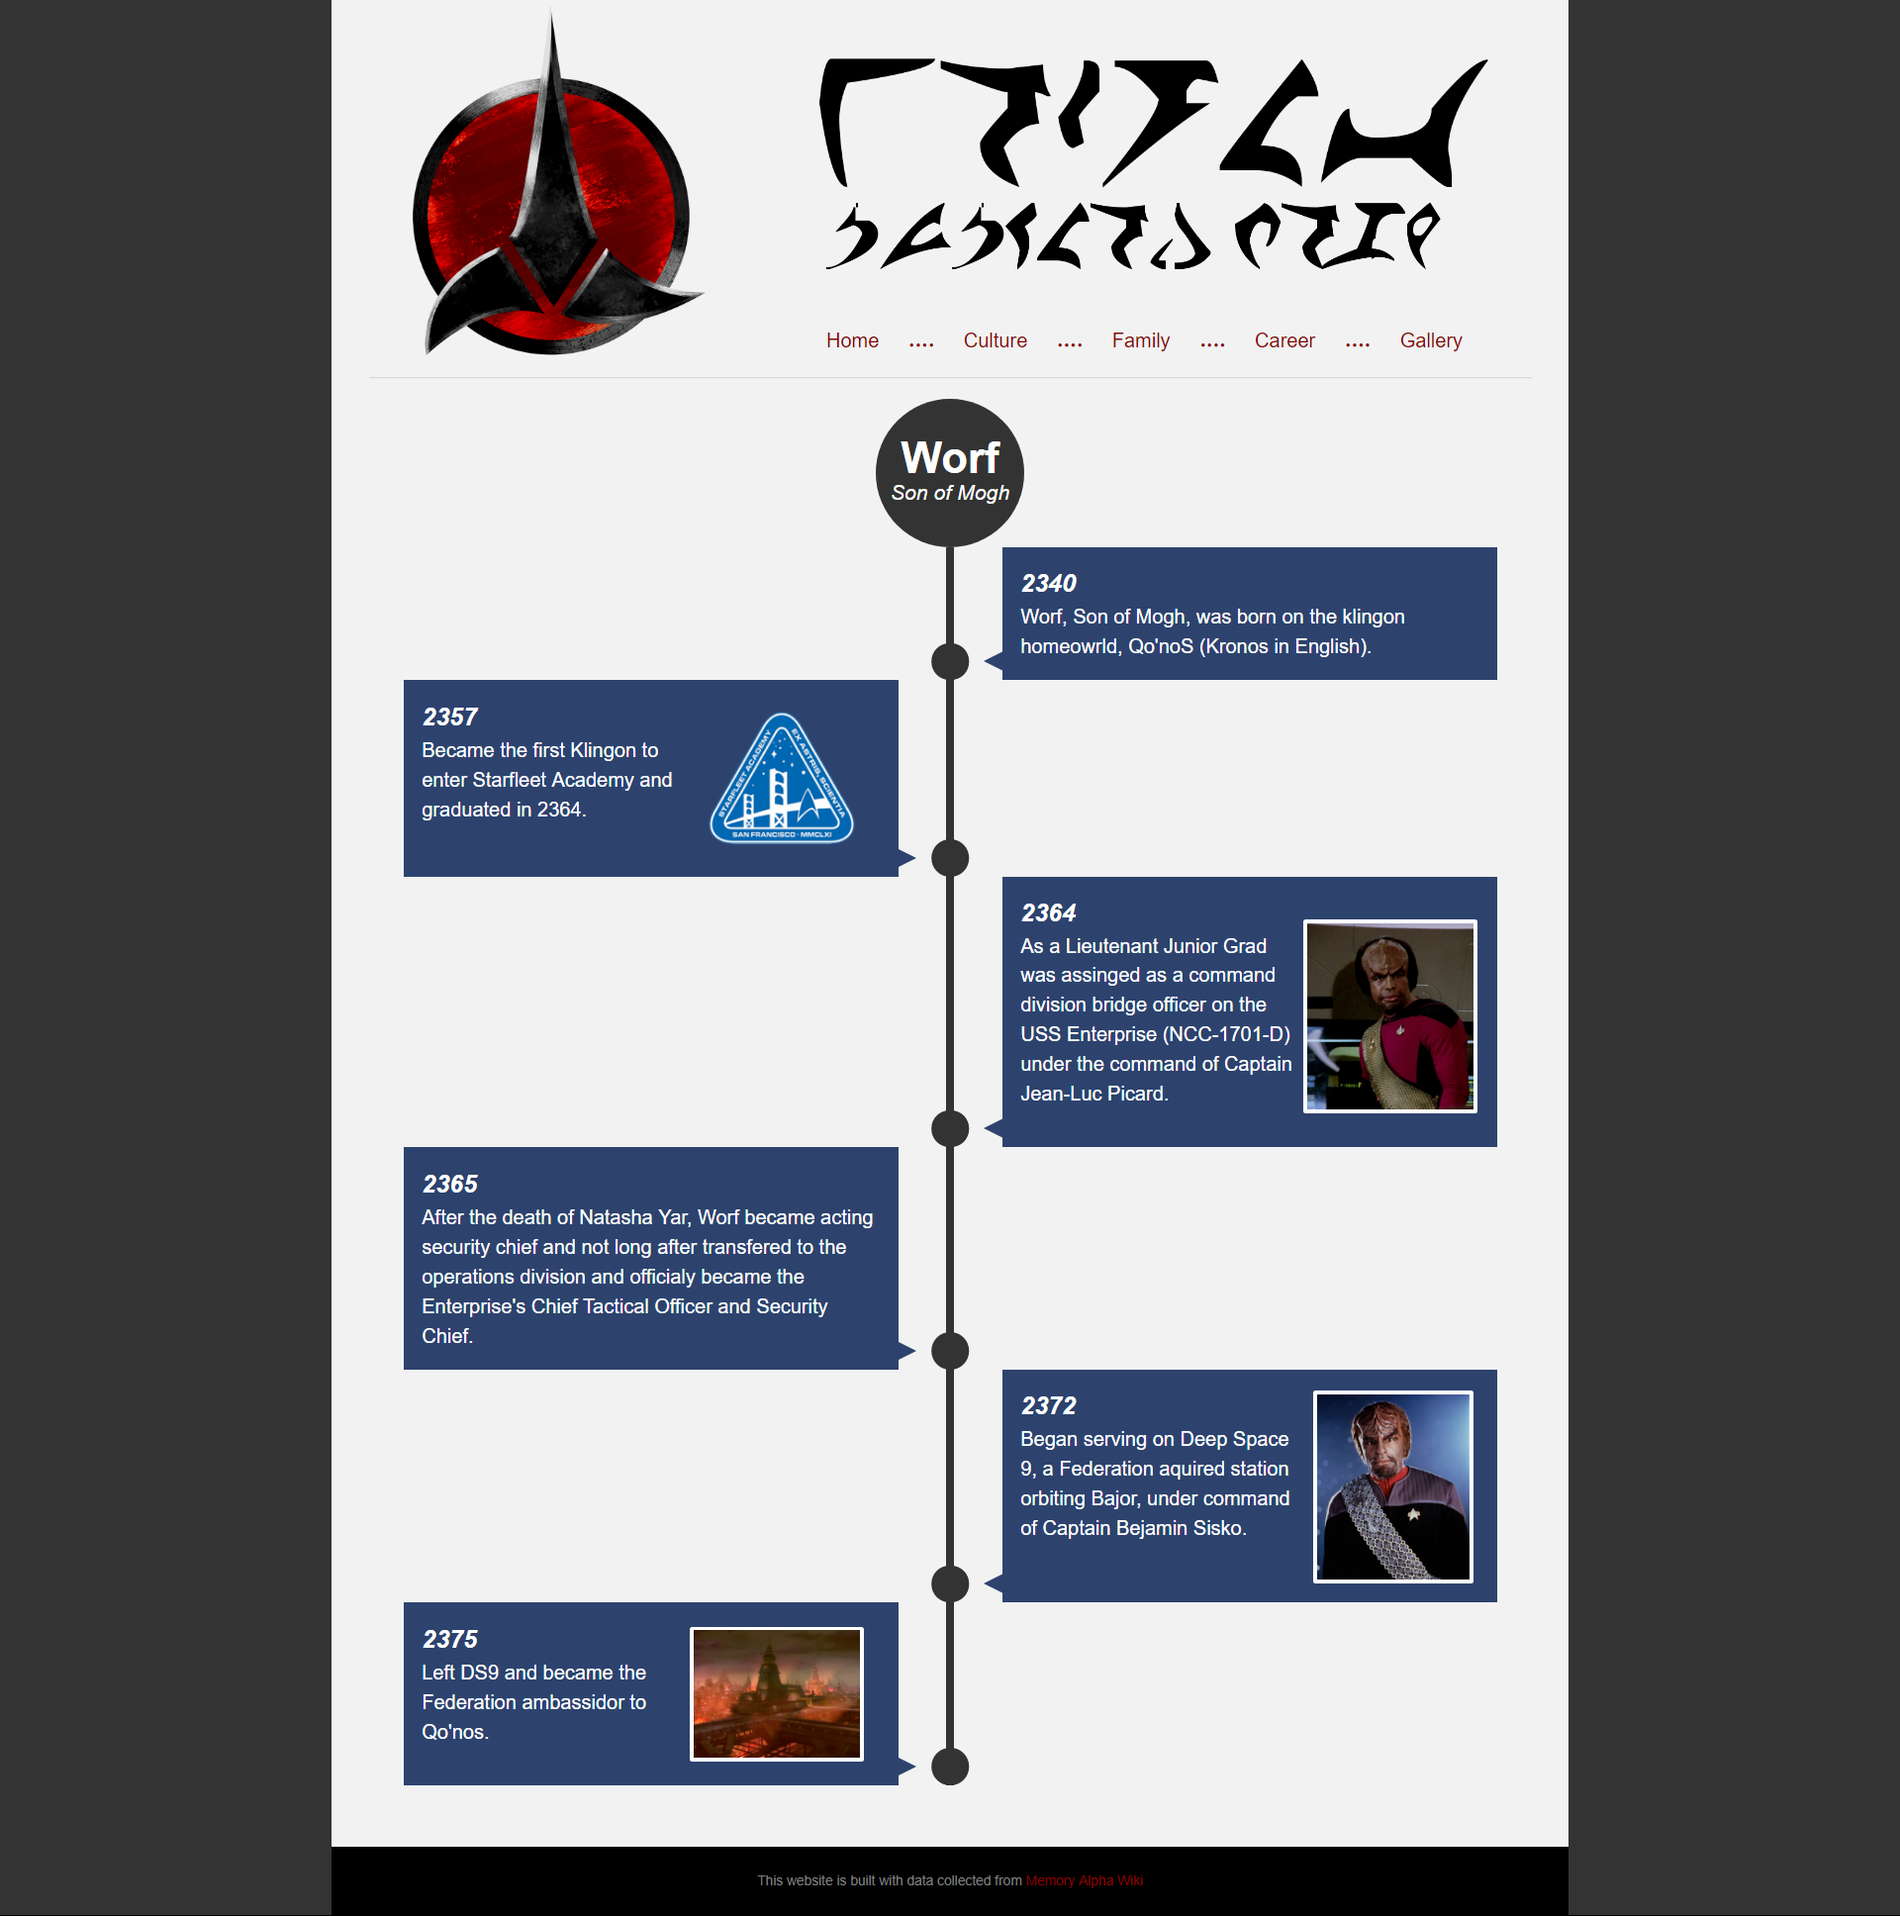
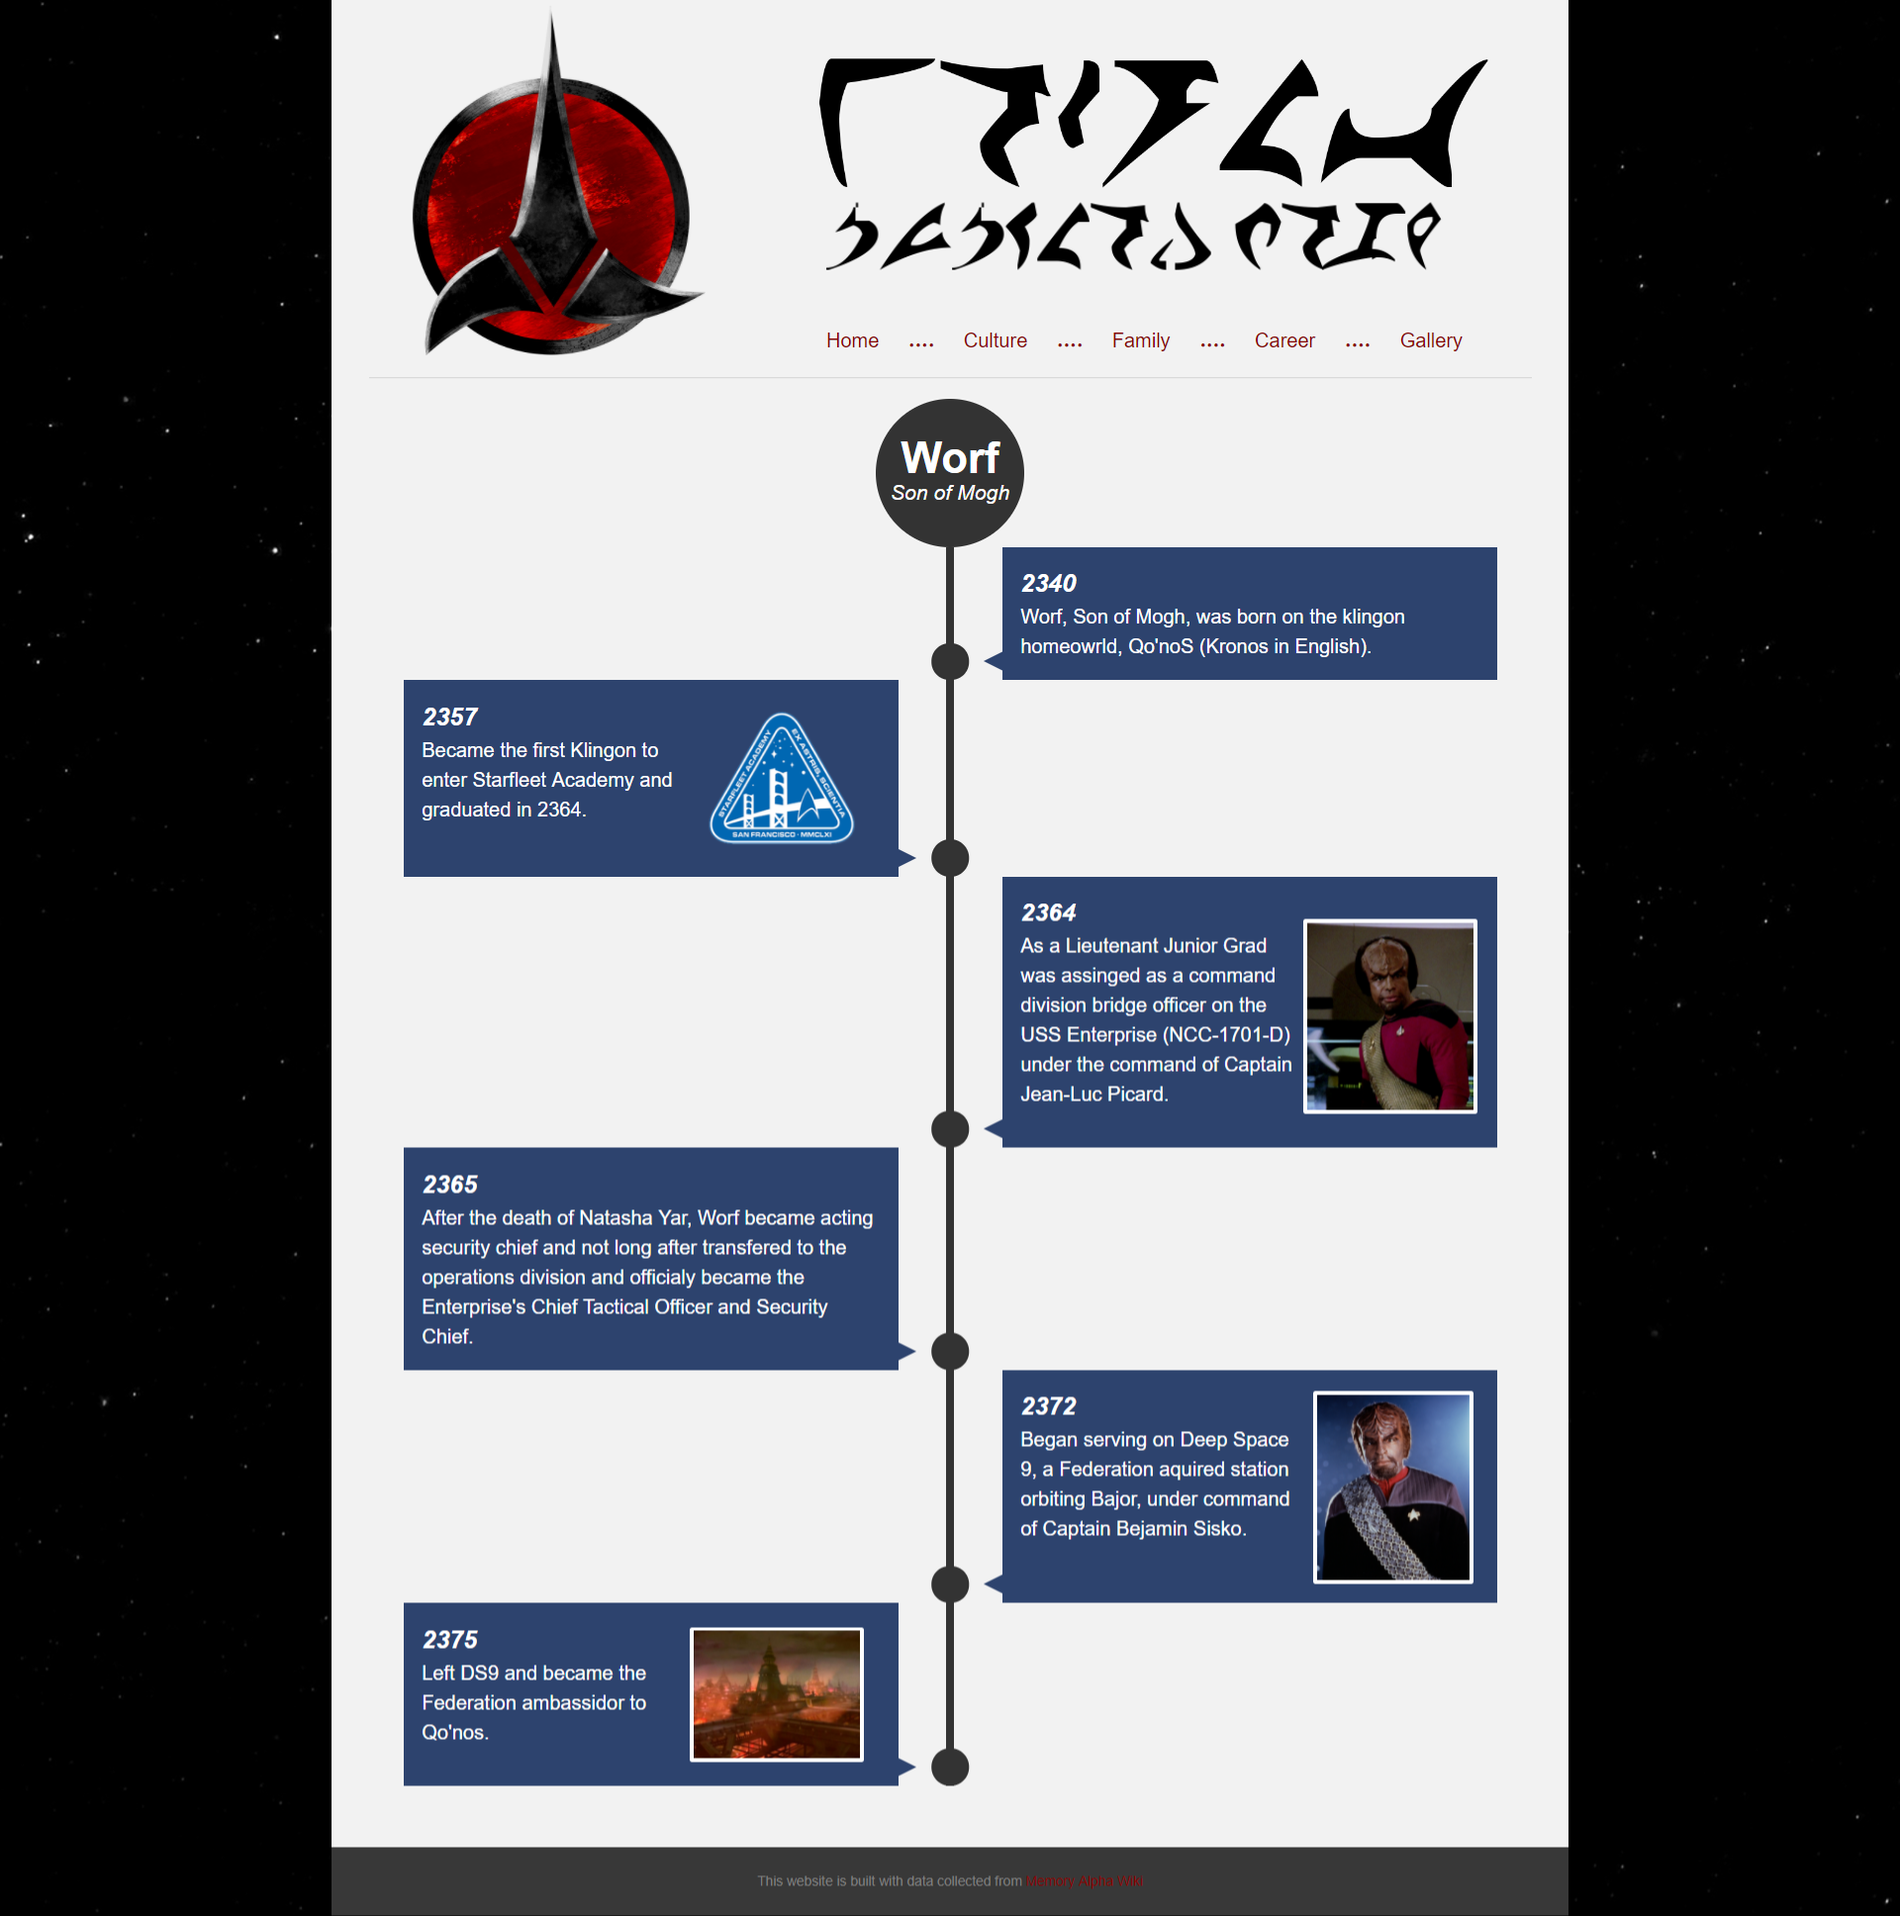
adjusted styling

diff --git a/src/App.vue b/src/App.vue
@@ -1,34 +1,40 @@
 <template>
   <div id="app">
-    
-    <div class="container">
-
-      <img src="./assets/klingon_logo.png" class="logo">
-
-      <div class="right-container">
-        <div class="klingon-text">
-          <img src="./assets/worf.png" class="worf-klingon">
-          <img src="./assets/son.png" class="son-klingon">
-        </div>
-
-        <ul class="navbar-list">
-          <li class="navbar-item"><router-link to="/">Home</router-link></li>
-          <li class="navbar-item dots">● ● ● ●</li>
-          <li class="navbar-item"><router-link to="/culture">Culture</router-link></li>
-          <li class="navbar-item dots">● ● ● ●</li>
-          <li class="navbar-item"><router-link to="/family">Family</router-link></li>
-          <li class="navbar-item dots">● ● ● ●</li>
-          <li class="navbar-item"><router-link to="/career">Career</router-link></li>
-          <li class="navbar-item dots">● ● ● ●</li>
-          <li class="navbar-item"><router-link to="/gallery">Gallery</router-link></li>
-        </ul>
-      </div>
+    <div class="twinkling">
       
-      <hr>
+      <div class="container">
 
-      <router-view></router-view>
+        <img src="./assets/klingon_logo.png" class="logo">
 
-      <div class="footer">This website is built with data collected from <a href="http://memory-alpha.wikia.com/wiki/Worf">Memory Alpha Wiki</a></div>
+        <div class="right-container">
+          <div class="klingon-text">
+            <img src="./assets/worf.png" class="worf-klingon">
+            <img src="./assets/son.png" class="son-klingon">
+          </div>
+
+          <ul class="navbar-list">
+            <li class="navbar-item"><router-link to="/">Home</router-link></li>
+            <li class="navbar-item dots">● ● ● ●</li>
+            <li class="navbar-item"><router-link to="/culture">Culture</router-link></li>
+            <li class="navbar-item dots">● ● ● ●</li>
+            <li class="navbar-item"><router-link to="/family">Family</router-link></li>
+            <li class="navbar-item dots">● ● ● ●</li>
+            <li class="navbar-item"><router-link to="/career">Career</router-link></li>
+            <li class="navbar-item dots">● ● ● ●</li>
+            <li class="navbar-item"><router-link to="/gallery">Gallery</router-link></li>
+          </ul>
+        </div>
+        
+        <hr>
+
+        <router-view></router-view>
+
+        <div class="footer">This website is built with data collected from <a href="http://memory-alpha.wikia.com/wiki/Worf">Memory Alpha Wiki</a>
+        </div>
+        
+      </div>
+
+      
     </div>
   </div>
 </template>
@@ -45,9 +51,74 @@ export default {
   font-family: 'Avenir', Helvetica, Arial, sans-serif;
   -webkit-font-smoothing: antialiased;
   -moz-osx-font-smoothing: grayscale;
-  // text-align: center;
   color: #2c3e50;
   background-color: #333333;
+}
+
+/* ============================================================================================== 
+STAR BACKGROUND EFFECT FROM:
+Nick Mkrtchyan
+https://www.facebook.com/sonick.pk
+http://www.Mkrtchyan.zz.mu
+================================================================================================= */
+
+@keyframes move-twink-back {
+    from {background-position:0 0;}
+    to {background-position:-10000px 5000px;}
+}
+@-webkit-keyframes move-twink-back {
+    from {background-position:0 0;}
+    to {background-position:-10000px 5000px;}
+}
+@-moz-keyframes move-twink-back {
+    from {background-position:0 0;}
+    to {background-position:-10000px 5000px;}
+}
+@-ms-keyframes move-twink-back {
+    from {background-position:0 0;}
+    to {background-position:-10000px 5000px;}
+}
+
+@keyframes move-clouds-back {
+    from {background-position:0 0;}
+    to {background-position:10000px 0;}
+}
+@-webkit-keyframes move-clouds-back {
+    from {background-position:0 0;}
+    to {background-position:10000px 0;}
+}
+@-moz-keyframes move-clouds-back {
+    from {background-position:0 0;}
+    to {background-position:10000px 0;}
+}
+@-ms-keyframes move-clouds-back {
+    from {background-position: 0;}
+    to {background-position:10000px 0;}
+}
+
+#app {
+  background:#000 url(http://www.script-tutorials.com/demos/360/images/stars.png) repeat top center;
+  z-index:0;
+}
+
+.twinkling{
+  background:transparent url(http://www.script-tutorials.com/demos/360/images/twinkling.png) repeat top center;
+  z-index:1;
+  -moz-animation:move-twink-back 500s linear infinite;
+  -ms-animation:move-twink-back 500s linear infinite;
+  -o-animation:move-twink-back 500s linear infinite;
+  -webkit-animation:move-twink-back 500s linear infinite;
+  animation:move-twink-back 500s linear infinite;
+}
+
+.clouds{
+  background:transparent url(http://www.script-tutorials.com/demos/360/images/clouds3.png) repeat top center;
+  z-index:3;
+  -moz-animation:move-clouds-back 200s linear infinite;
+  -ms-animation:move-clouds-back 200s linear infinite;
+  -o-animation:move-clouds-back 200s linear infinite;
+  -webkit-animation:move-clouds-back 200s linear infinite;
+  animation:move-clouds-back 200s linear infinite;
 }
 
 .container {
@@ -117,14 +188,11 @@ a:hover {
   text-decoration: none;
 }
 
-
 .logo {
   display: inline-block;
   width: 300px;
   vertical-align: top;
 }
-
-
 
 h1 {
   text-align: center;
@@ -135,7 +203,7 @@ h1 {
 /* FOOTER */
 .footer {
   width: 1000px;
-  background-color: black;
+  background-color: #383838;
   margin-left: -30px;
   padding-top: 20px;
   padding-bottom: 20px;

diff --git a/src/components/Family.vue b/src/components/Family.vue
@@ -4,13 +4,17 @@
     <h1>Family</h1>
     <p>Worf was born in 2340 on the Klingon homeworld, Qo'noS, as the son of Mogh, patriarch of one of the Klingon Empire's Great Houses. When Worf was five years old, his father took him and his mother to live on the Khitomer colony. There, Mogh took Worf on a ritual hunt along with a garrison warrior, L'Kor. Worf had not yet reached the Age of Inclusion and was barely able to hold a bat'leth. During the hunt, Worf was mauled by a beast, leaving behind a scar and memory he kept throughout his life.</p>
 
+    <img src="../assets/family/worf_alexander.jpg" class="img-alexander">
     <p>In 2346, the Klingon Empire and the Romulan Star Empire were officially allied but a conspiracy between the Romulans and the House of Duras left the Klingon Empire open to betrayal. Romulan forces attacked the Khitomer colony, killing nearly all the 4,000 Klingon colonists, including Worf's parents.</p>
+
 
     <p>Worf dated K'Ehleyr, a Human-Klingon woman, while he attended Starfleet Academy, but the relationship at the time ended acrimoniously. In 2365, while K'Ehleyr served as a Klingon emissary, she had to board the Enterprise-D to deal with a Klingon sleeper ship from the 23rd century. The two briefly rekindled their relationship when a joint holodeck training exercise led to a Klingon mating ritual. Worf, at the time, insisted that they take the oath of marriage afterward, but K'Ehleyr refused, stating, "Don't give me any of that Klingon nonsense." K'Ehleyr paid no heed to Klingon tradition, as she felt that she had inherited the worst traits of her respective parents' races (her Human mother's sense of humor, and her Klingon father's temper). They parted afterward, resolving their feelings before her departure from the Enterprise-D.</p>
 
+    <img src="../assets/family/parents.jpg" class="img-parents">
+
+
     <p>Unbeknownest to Worf, however, the mating ritual led to K'Ehleyr becoming pregnant with their child. K'Ehleyr returned to the Enterprise-D in 2367 to participate in the succession of Chancellor K'mpec, and took the opportunity to introduce their son, Alexander, to Worf for the first time. In the intervening years, she found she needed Worf after all, and wanted to finish the mating ritual. This time, Worf backed off, unwilling to permit his intervening discommendation to discredit either K'Ehleyr or Alexander. Worf's refusal to detail the nature of his discommendation prompted K'Ehleyr to start her own investigation, an action that triggered the attention of Duras and her subsequent murder. Worf and Alexander found K'Ehleyr dying from multiple stab wounds. Her whisper confirmed the identity of her killer, and she brought Alexander's small hand to his father's as she died.</p>
 
-    <img src="../assets/family/worf_alexander.jpg" class="img-alexander">
 
     <p>Worf performed the Klingon death ritual and consoled his son in Klingon fashion before he abandoned the symbols of Starfleet and Empire. With only his bat'leth, he boarded Duras' ship, the IKS Vorn, claiming the Right of Vengeance under Klingon law. After the first blows were exchanged, Duras reminded Worf the cost of victory – Duras' death meant Worf's family name may never be cleared. Worf's family name suddenly meant little against the memory of K'Ehleyr, and he answered, "Then that is how it shall be!" and left Duras' corpse on the deck.</p>
     
@@ -32,7 +36,16 @@
 <style scoped>
 
 .img-alexander {
+  float: left;
   width: 200px;
+  margin-right: 20px;
+}
+
+.img-parents {
+  float: right;
+  width: 300px;
+  margin-left: 15px;
+  border: solid black 3px;
 }
 
 </style>

diff --git a/src/components/Career.vue b/src/components/Career.vue
@@ -2,21 +2,25 @@
   <div class="career">
 
     <h1>Career</h1>
+
+    <img src="../assets/tng_crew.jpg" class="img-crew">
+
+
     <p>In 2364, Lieutenant junior grade Worf was assigned as a command division bridge officer on the USS Enterprise (NCC-1701-D), under the command of Captain Jean-Luc Picard. Worf spent most of his first year on the Enterprise-D as a relief officer for the conn and other bridge stations.</p>
-
-    <p>Worf was permitted a variation from the Starfleet uniform dress code, and wore a Klingon warrior's sash, sometimes called a baldric by Humans, over his regular duty uniform.  Worf's quarters were on Deck 7, in Section 25 Baker until 2370, when he moved to Deck 2, Room 2713.</p>
-
-    <div class="flying-container">
-        <img src="../assets/enterprise.png" id="enterprise" v-on:mouseover="moveEnterprise">
-    </div>
-
-    <p>Following the death of Natasha Yar at the hands of the Armus entity, Worf became acting security chief. In 2365, Worf transferred to the operations division and officially became the Enterprise-D's chief tactical officer and security chief. He was promoted to the rank of full lieutenant in 2366. After seven years of service aboard the starship, Worf rose in rank to lieutenant commander in 2371.</p>
 
     <div class="tricorder-container">
         <img src="../assets/tricorder.png" id="tricorder" v-on:mouseover="playTricorder">
     </div>
 
+    <p>Worf was permitted a variation from the Starfleet uniform dress code, and wore a Klingon warrior's sash, sometimes called a baldric by Humans, over his regular duty uniform.  Worf's quarters were on Deck 7, in Section 25 Baker until 2370, when he moved to Deck 2, Room 2713.</p>
+
+
+    <p>Following the death of Natasha Yar at the hands of the Armus entity, Worf became acting security chief. In 2365, Worf transferred to the operations division and officially became the Enterprise-D's chief tactical officer and security chief. He was promoted to the rank of full lieutenant in 2366. After seven years of service aboard the starship, Worf rose in rank to lieutenant commander in 2371.</p>
+
     <p>During these years of service, Worf's record was marred by a single reprimand, earned when he killed Duras in an honor duel after the latter had Worf's mate, K'Ehleyr, killed. Killing Duras directly affected the ascension of a new Klingon Chancellor after the death of K'mpec.</p>
+    <div class="flying-container">
+        <img src="../assets/enterprise.png" id="enterprise" v-on:mouseover="moveEnterprise">
+    </div>
 
   </div>
 </template>
@@ -51,12 +55,20 @@ export default {
 
 <style scoped>
 
+
+.img-crew {
+  float: left;
+  width: 300px;
+  margin-right: 15px;
+  border: solid black 3px;
+}
+
 /* FLYING ENTERPRISE */
 .flying-container {
     position: relative;
     width: 1000px;
     height: 80px;
-    margin-top: 35px;
+    // margin-top: 35px;
 }
 
 #enterprise {
@@ -66,18 +78,16 @@ export default {
 
 /* PLAY TRICORDER */
 .tricorder-container {
-    position: relative;
-    width: 250px;
-    height: 170px;
+    float: right;
+    width: 100px;
 }
 
 #tricorder {
-    position: absolute;
-    width: 150px;
+    width: 90px;
 }
 
 #tricorder:hover {
-    transform: scale(1.3);
+    transform: scale(1.2);
 
 }
 
